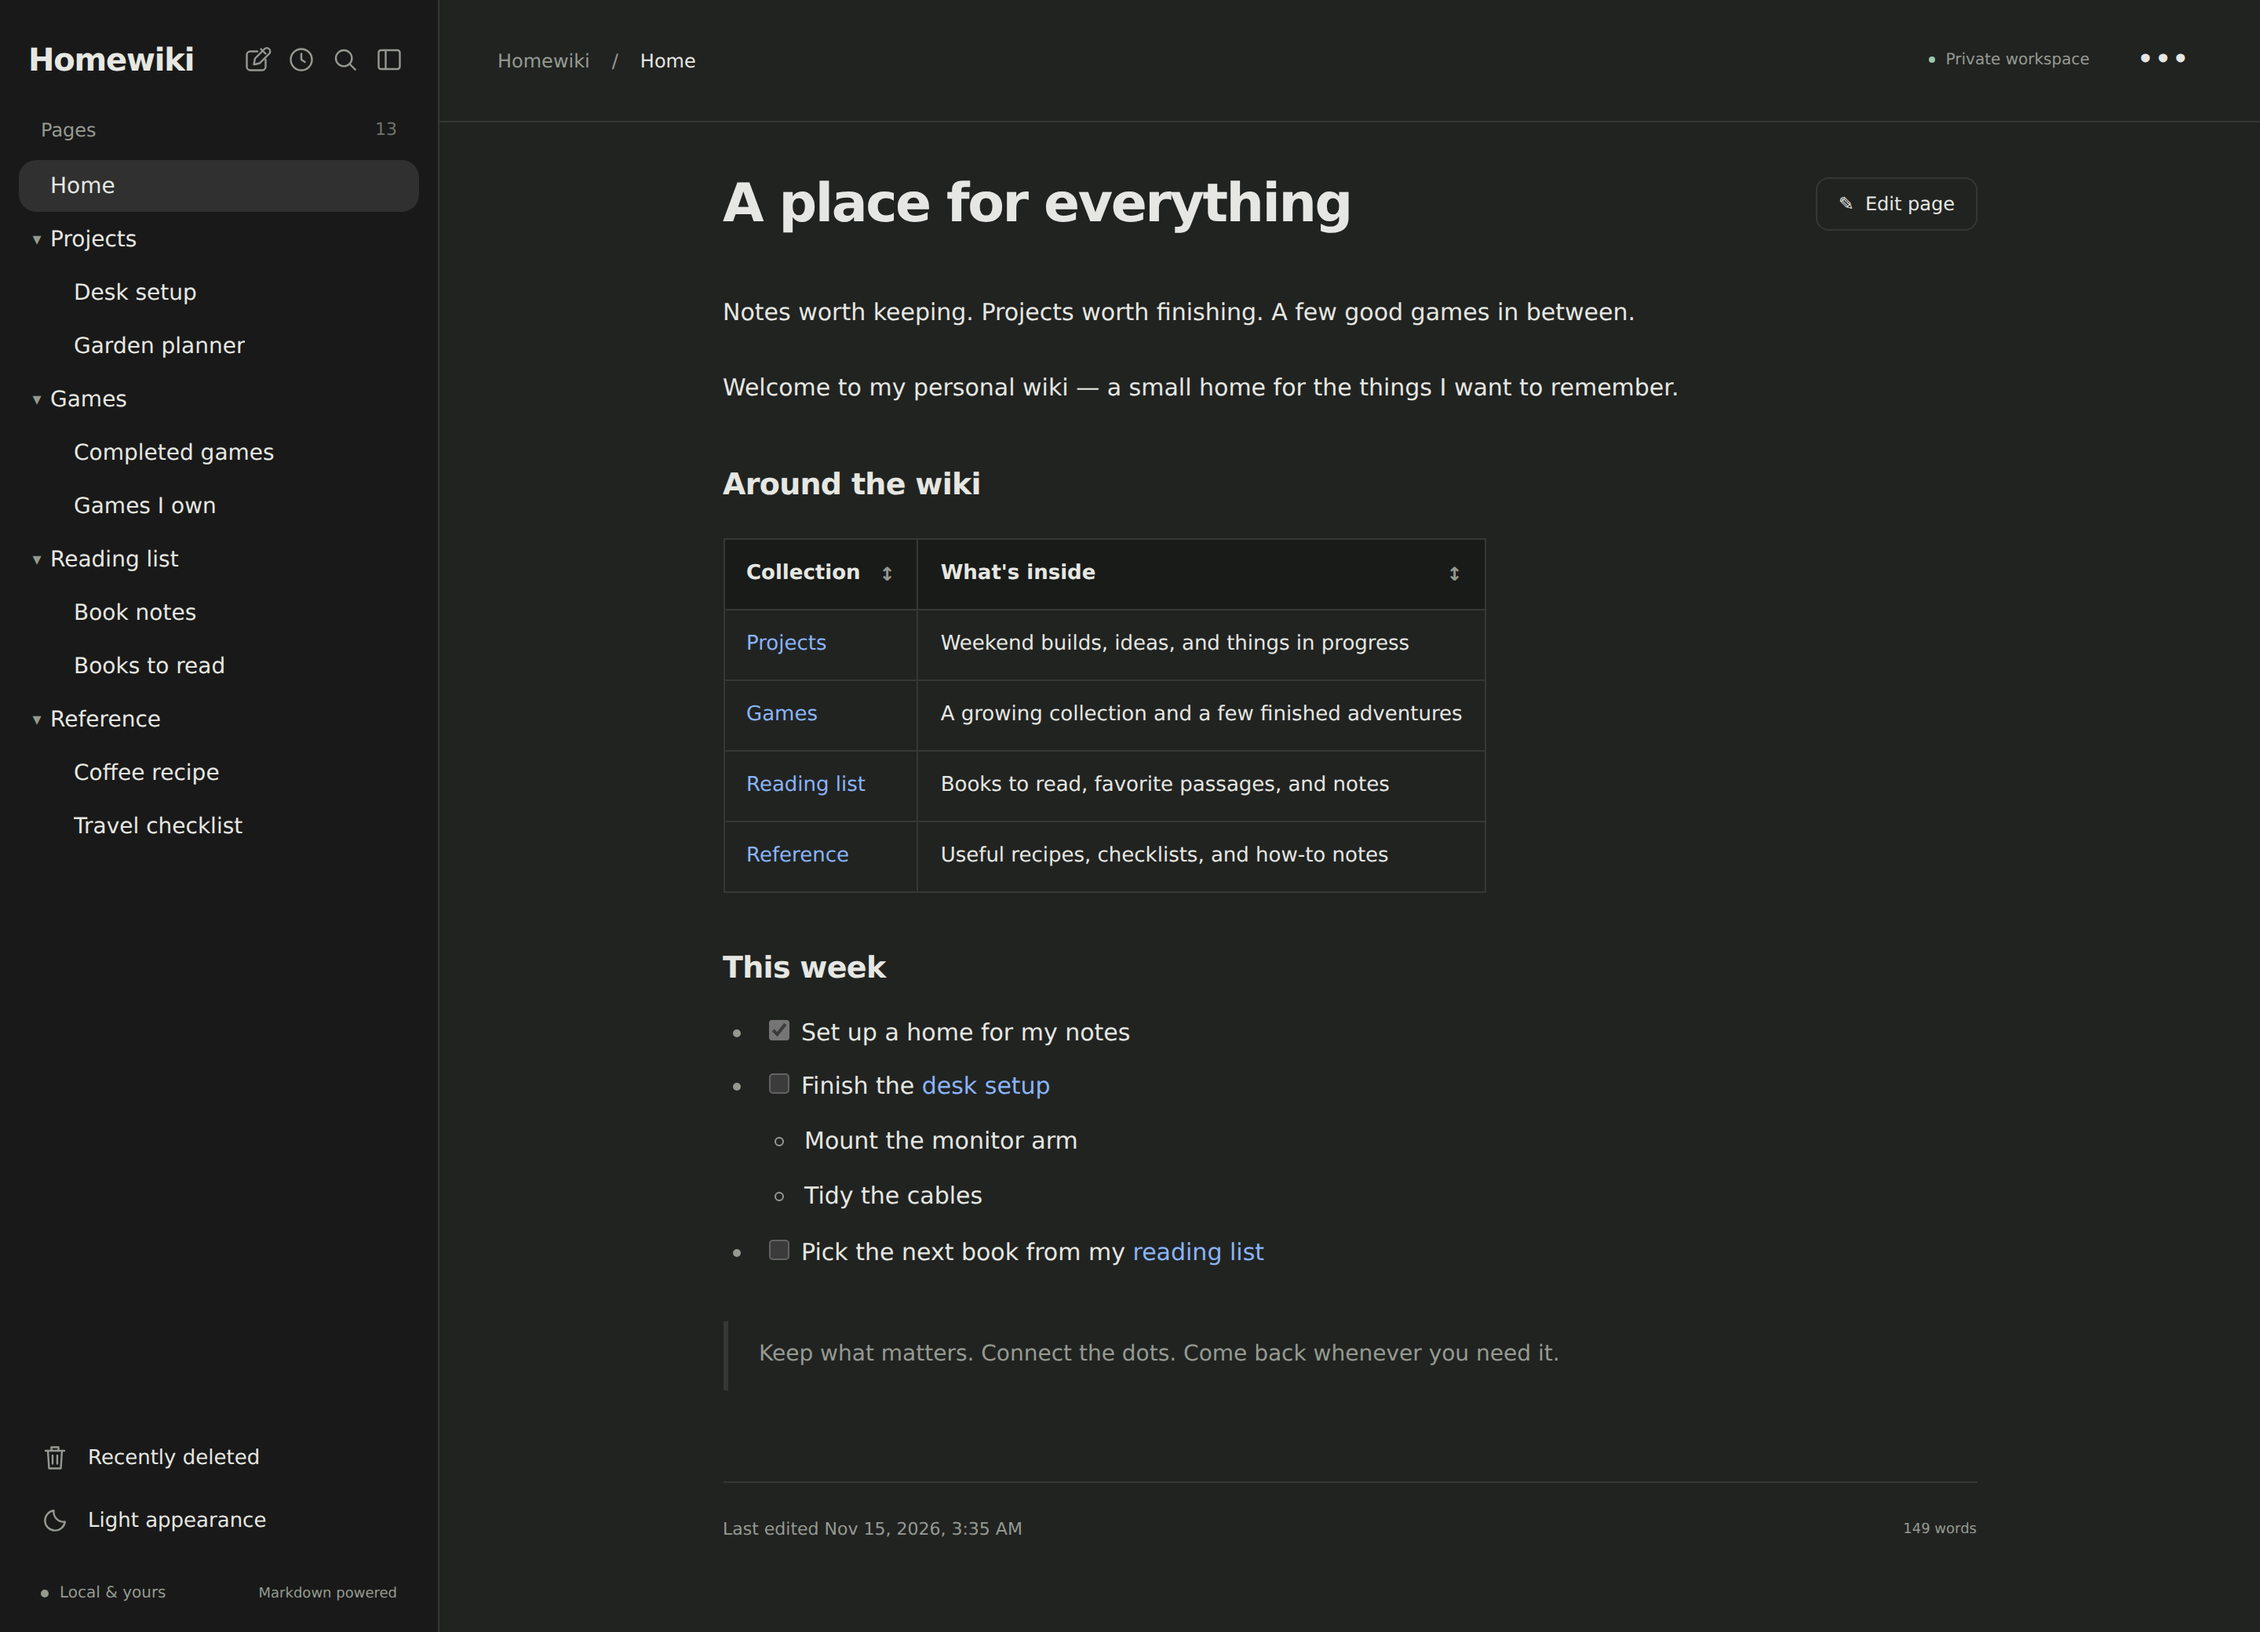
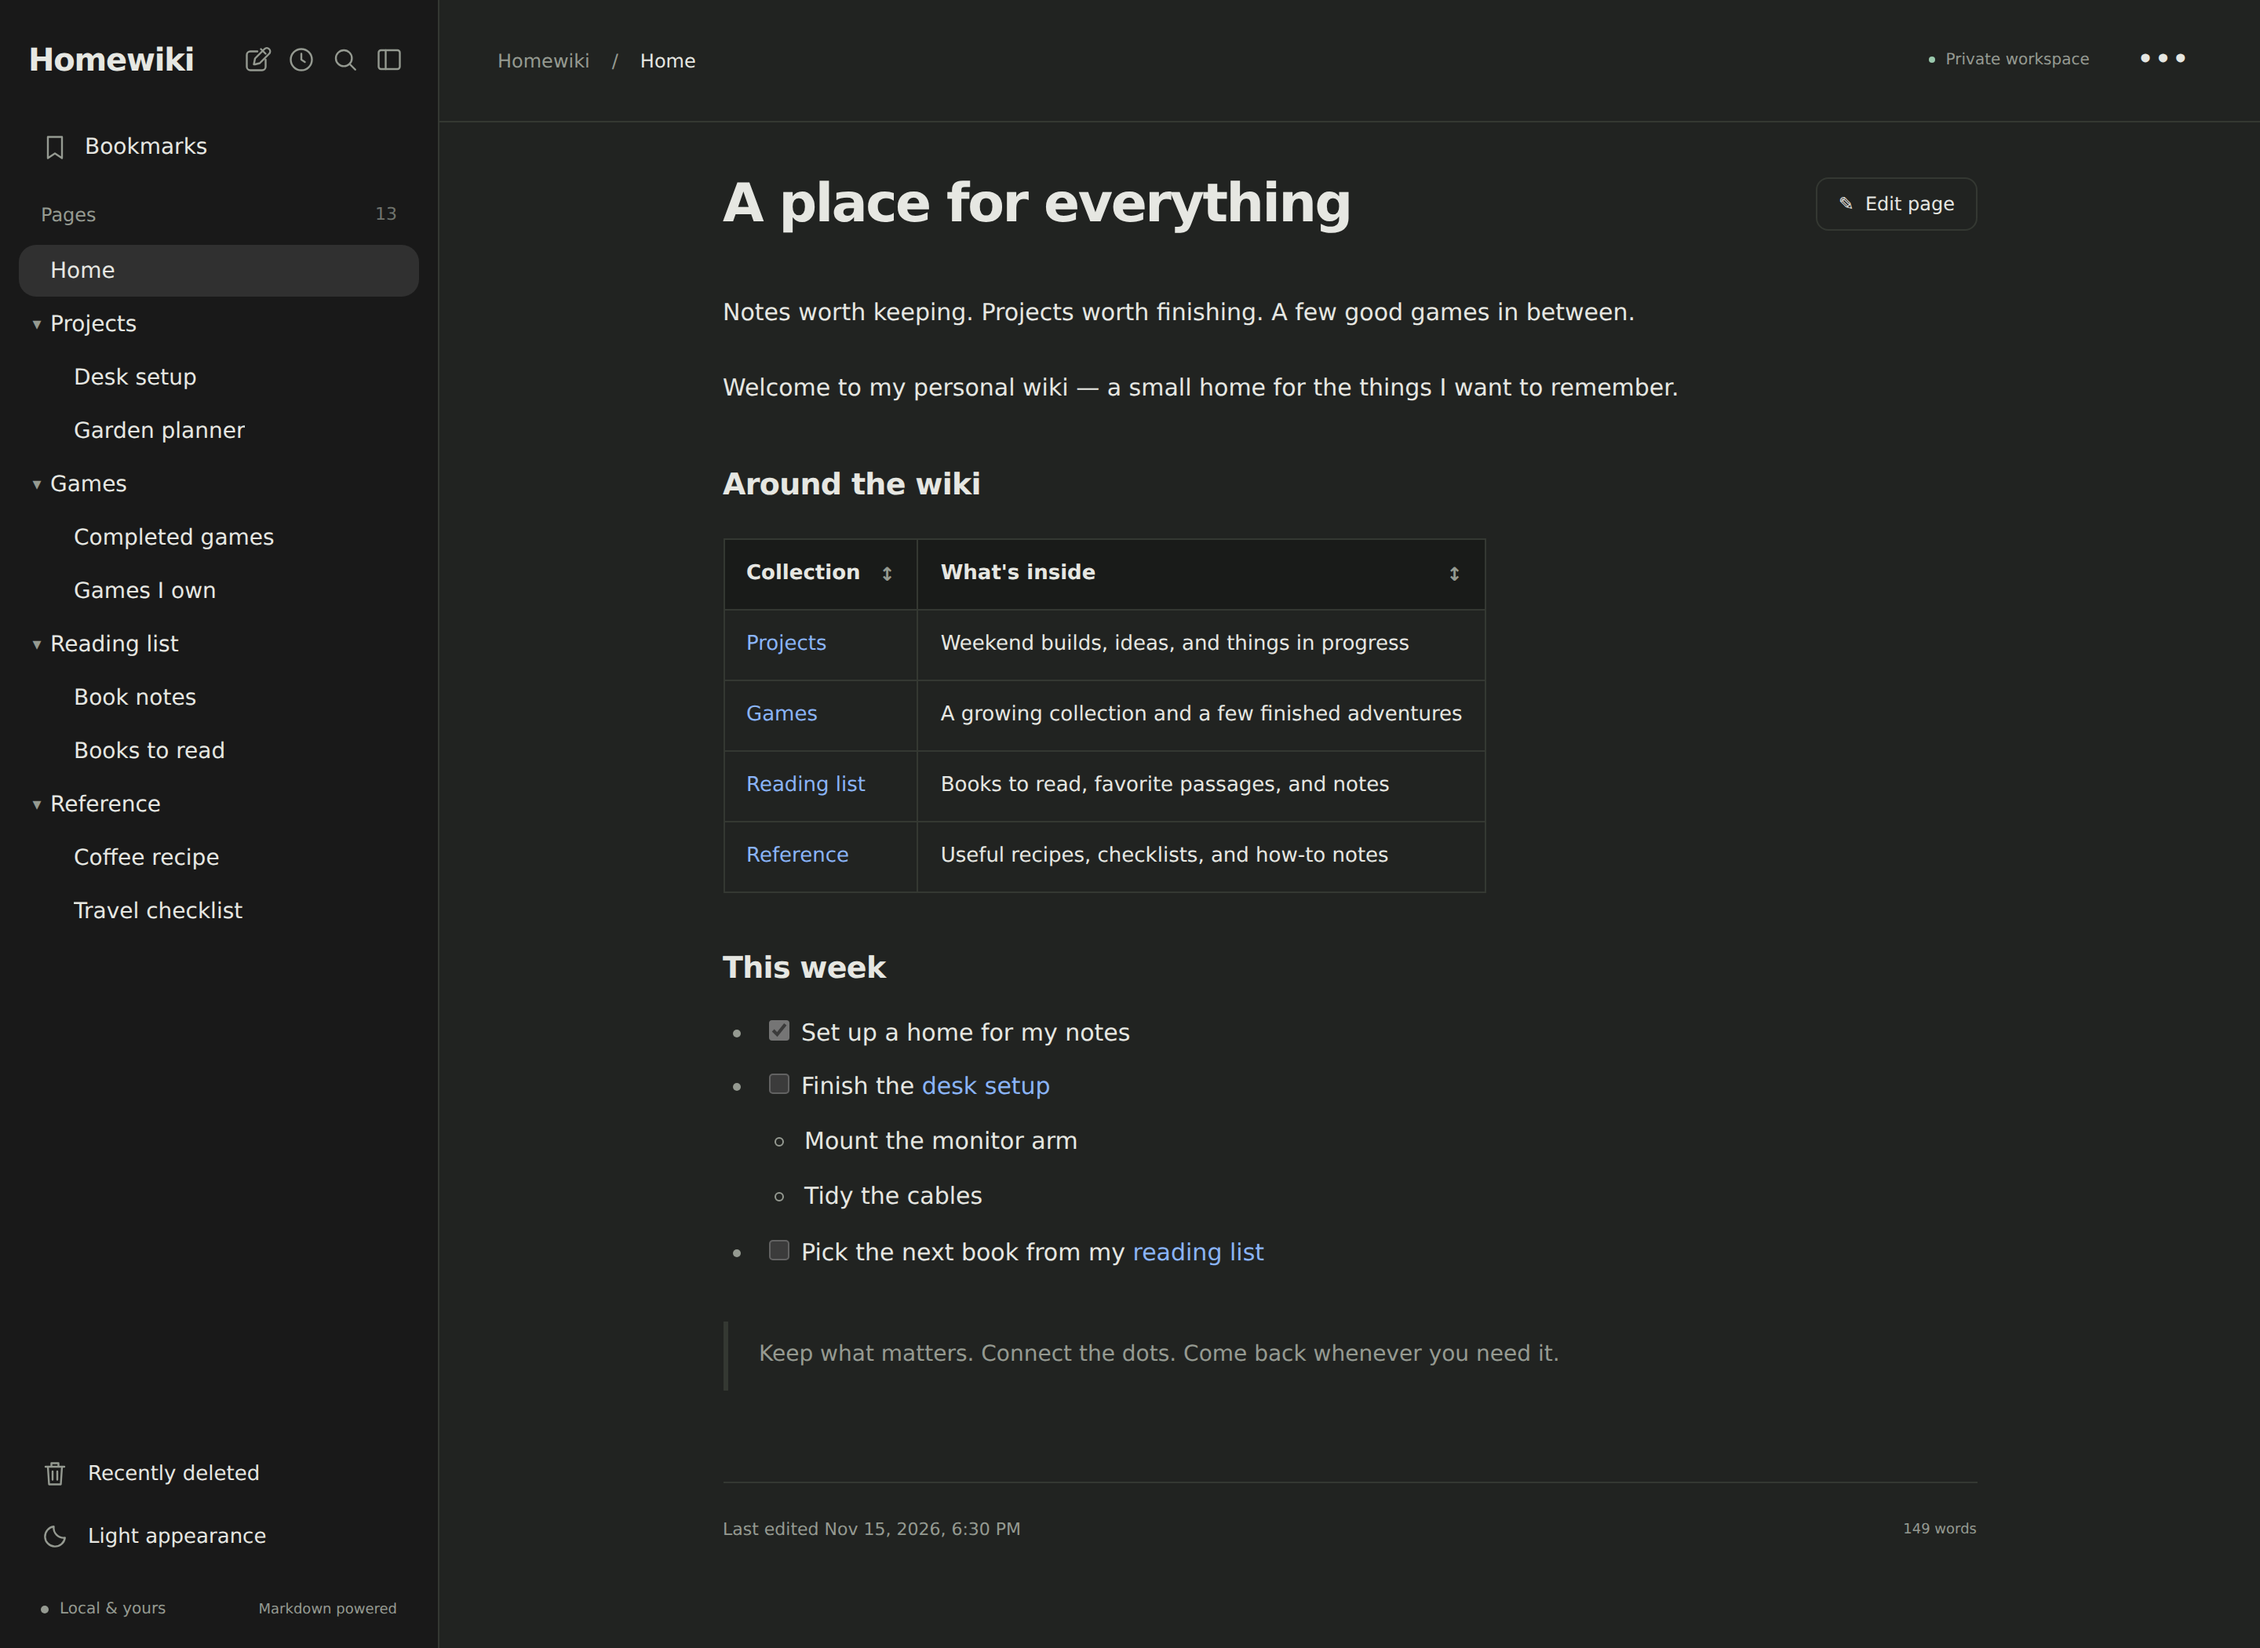
Refresh README features and wiki and bookmark screenshots

diff --git a/README.md b/README.md
@@ -6,20 +6,32 @@ After looking for years, I couldn't find a simple wiki for home internal use tha
 
 Homewiki is a lightweight, locally hosted personal wiki. Wiki pages are ordinary UTF-8 Markdown files in nested folders. The bookmark library uses SQLite. There is no build step or third-party runtime dependency.
 
+- Collapsible sidebar, light/dark themes, and clean page URLs with clickable breadcrumbs.
+- Markdown pages with nested folders, drag-and-drop sidebar ordering, internal links, search, and image uploads.
+- Browser editor with preview, draft recovery, edit conflicts, page history, and version restore.
+- Sortable tables, nested lists, clickable breadcrumbs, and a Recently edited index.
+- A bookmark library with editable descriptions, tags, original bookmark dates, and browsing by tag or domain.
+- Page titles fill in while adding a URL and remain editable. Page-text saving is enabled by default for new bookmarks, with full-text search across saved text and bookmark details.
+- Recoverable deleted wiki pages; bookmark deletion is permanent.
+- Docker Compose and Unraid support with persistent storage.
+
+## Screenshots
+
+Example content in the current interface. Images follow your light or dark theme.
+
+### Wiki
+
 <picture>
   <source media="(prefers-color-scheme: dark)" srcset="docs/images/homewiki-dark.png">
-  <img src="docs/images/homewiki-light.png" alt="Homewiki example with a nested page sidebar, linked collections, a sortable table, and a task list" width="1440">
+  <img src="docs/images/homewiki-light.png" alt="Homewiki wiki page with a nested sidebar, linked collections, a sortable table, and task lists" width="1440">
 </picture>
 
-A sample wiki with nested pages, internal links, sortable tables, and task lists. The screenshot follows your light or dark theme.
+### Bookmarks
 
-- Collapsible sidebar, light/dark themes, and clean page URLs with clickable breadcrumbs.
-- Create, edit, rename/move, and delete pages in the browser.
-- Markdown editor with preview, internal wiki links, a page-link picker, full-text search, and image uploads by drop, paste, or file picker.
-- Browser draft recovery, revision-based conflict detection, and a manual merge view.
-- Bookmark library with tags, domain browsing, editable descriptions, and optional page-text search.
-- Page history with comparisons and restore, recoverable deleted pages, last-edit dates, and a Recently edited index.
-- Docker Compose and an optional Unraid deployment script with persistent storage.
+<picture>
+  <source media="(prefers-color-scheme: dark)" srcset="docs/images/bookmarks-dark.png">
+  <img src="docs/images/bookmarks-light.png" alt="Homewiki bookmark library with saved page titles, descriptions, tags, domain links, original save dates, and full-text search" width="1440">
+</picture>
 
 ## Run on Unraid
 
